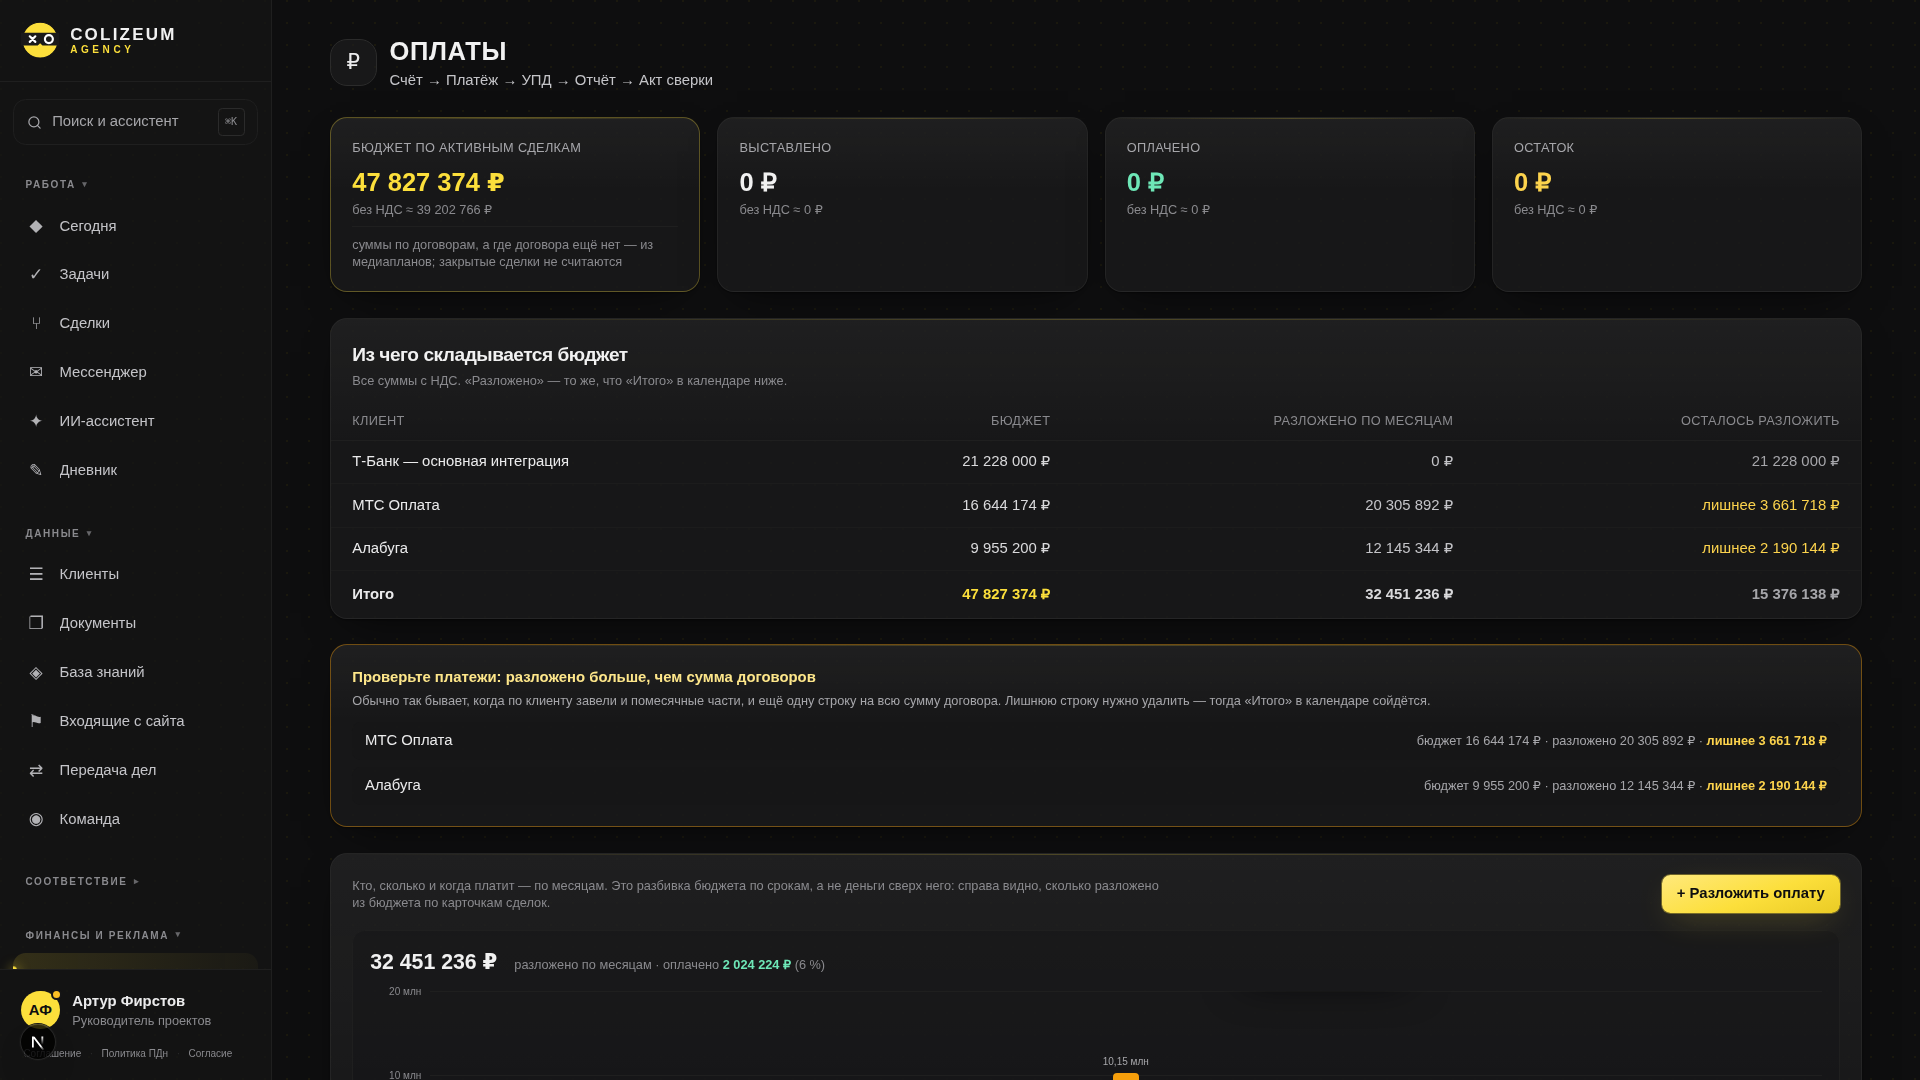
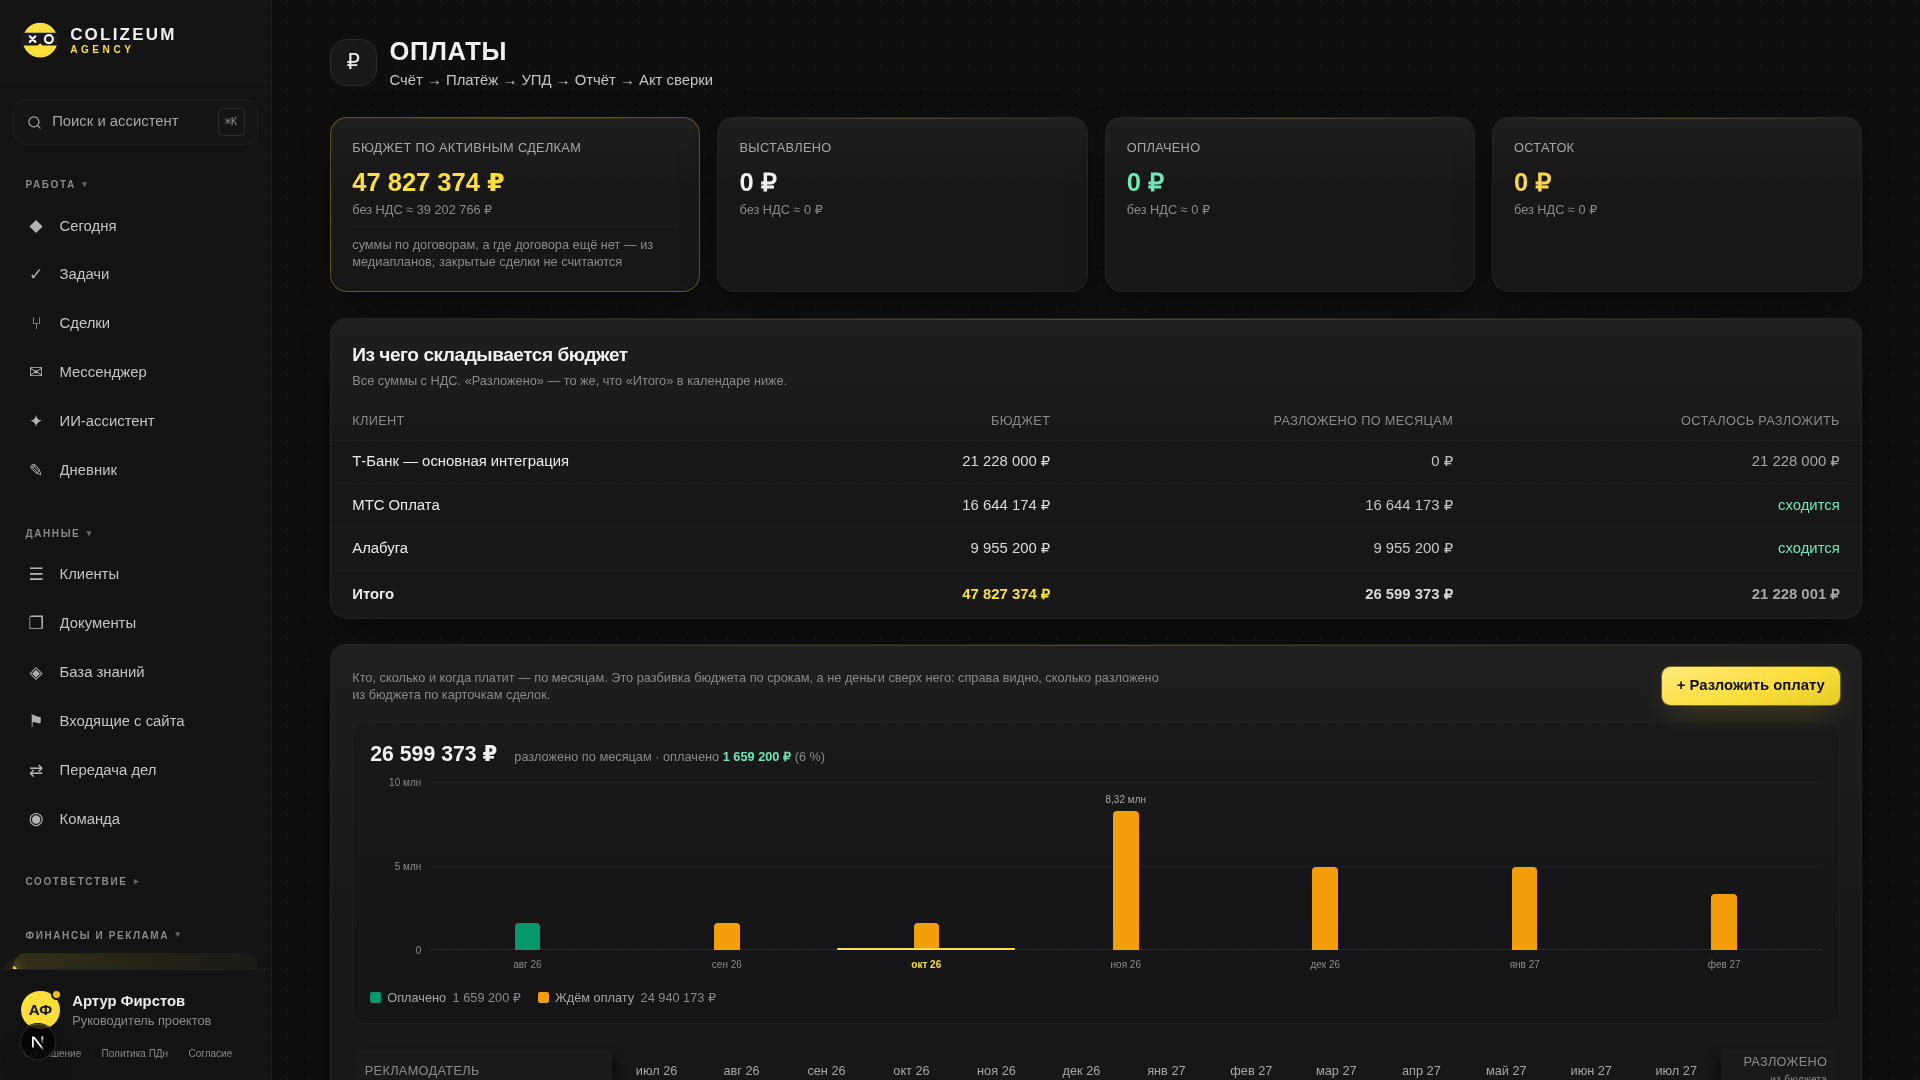
Ролик: чистый кадр «Оплат» после правки демо-данных
Кадр показывал жёлтое предупреждение «разложено больше, чем сумма
договоров». Разбор показал, что сервис считал ВЕРНО: часть плановых
платежей в демо-базе была заведена суммами С НДС, хотя правило сервиса —
хранить их чистыми. Сверка добавляла НДС второй раз и получала +22 %.

Демо-база поправлена (10 платежей по двум клиентам), кадр переснят,
искусственный зум для пряток больше не нужен — сцена вернулась к обычному
наезду.

⚠ На боевой базе возможна та же картина у записей, заведённых до правила
«вводим чистую сумму». Разбор — npx tsx scripts/money-net-rule.ts
(показывает обе трактовки, ничего не меняет).

Claude-Session: https://claude.ai/code/session_017wXrLXWGLDhiPN2vL8wwjm

diff --git a/video/colizeum-crm/src/scenes.tsx b/video/colizeum-crm/src/scenes.tsx
@@ -288,10 +288,7 @@ export const SceneMoney: React.FC = () => {
   return (
     <AbsoluteFill>
       <Backdrop />
-      {/* ⚠ Кадр держит ВЕРХ страницы: ниже на демо-данных висит жёлтое
-          предупреждение «разложено больше суммы договоров» — это нормальная
-          работа сверки, но в ролике читалось бы как ошибка сервиса. */}
-      <Shot src="finances" from={0} dur={sec(10.6)} zoom={1.38} origin="center 20%" />
+      <Shot src="finances" from={0} dur={sec(10.6)} zoom={1.06} />
       <AbsoluteFill style={{ ...center, justifyContent: "flex-start", paddingTop: 170 }}>
         <div
           style={{
